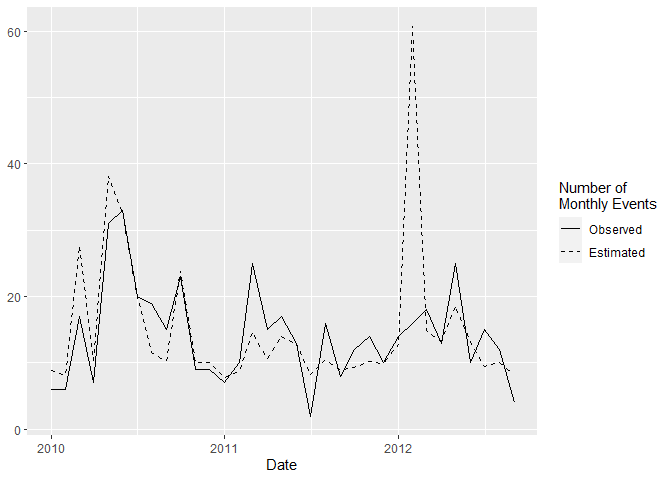
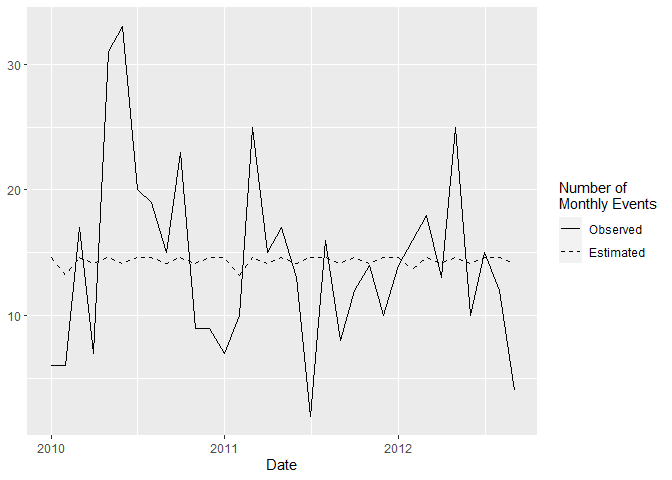
readme update

diff --git a/src/3_trig_space.cpp b/src/3_trig_space.cpp
@@ -23,7 +23,7 @@ NumericVector get_h(NumericMatrix p0, NumericVector space_breaks,
     for (int l = 0; l < n_l; l++) {
       for (int i = 0; i < n_i; i++){
         for (int j = i; j < n_i; j++){
-          if(space_breaks[l] < dist_mat(i,j) && dist_mat(i,j) <= space_breaks[l+1]){
+          if(space_breaks[l] < dist_mat(i,j) && dist_mat(i,j) <= space_breaks[l + 1]){
             num_h[l] += p0(j,i);
           } else{
             num_h[l] += 0;
@@ -35,7 +35,7 @@ NumericVector get_h(NumericMatrix p0, NumericVector space_breaks,
     // denominator
 
     for (int i = 0; i < n_l; i++){
-      den_h[i] = (space_breaks[i+1] - space_breaks[i]);
+      den_h[i] = (space_breaks[i + 1] - space_breaks[i]);
     }
 
     for (int i = 0; i < n_i; i++) {

diff --git a/README.md b/README.md
@@ -56,12 +56,24 @@ equal to `TRUE`. We’ll set out reference date to be January 1, 2010, the
 date that our simulated catalog began.
 
 ``` r
+t1 = c(0, 0.001, 0.01, 0.1, 1, 5, 10, 100, 1500)
+t2 = c(0,2,5,10, 31, 1500)
+s1 = c(0, 0.01, 0.1, 1, 10, 100)
+s2 = c(0, 0.001, 0.01, 0.1, 1, 5, 10, 50, 100)
+s3 = c(0, 0.1, 1, 5, 10, 25, 50, 100)
+s4 = c(0, 0.001, 0.01, 0.25, 0.50, 0.75, 1, 2.5, 5, 10, 25, 50, 100)
 out = nph(dates = quake$date, ref_date = "2010-01-01",
           marks = quake$m, 
-          time_breaks = c(0, 2, 5, 10, 31, 1500),
+          lat = quake$lat,
+          lon = quake$lon,
+          time_breaks = t1,
+          space_breaks = s4,
+          space_quantile = FALSE,
           time_quantile = FALSE,
           mark_quantile = TRUE,
           time_of_day = quake$time)
+
+# good luck so far with t1 and mark quantile
 ```
 
 We can view the background rate and percentage of mass that lies on the
@@ -69,9 +81,9 @@ diagonal of the resulting probability matrix.
 
 ``` r
 out$br
-#> [1] 0.2273166
+#> [1] 0.4709871
 out$perc_diag
-#> [1] 0.4835902
+#> [1] 0.9999988
 ```
 
 We can then inspect histogram estimators of the triggering functions.
@@ -85,23 +97,24 @@ trig_plots(model = out, g_max = 32,
 
 <img src="man/figures/README-unnamed-chunk-4-1.png" width="100%" />
 
-    #> TableGrob (1 x 2) "arrange": 2 grobs
+    #> TableGrob (1 x 3) "arrange": 3 grobs
     #>   z     cells    name           grob
     #> 1 1 (1-1,1-1) arrange gtable[layout]
     #> 2 2 (1-1,2-2) arrange gtable[layout]
+    #> 3 3 (1-1,3-3) arrange gtable[layout]
 
 We’ll now calculate the conditional intensity of the process.
 
 ``` r
 ci = cond_int(model = out)
 head(ci)
-#>       times lat lon    marks  cond_int       Date
-#> 1  8.966238   0   0 3.756671 0.2300374 2010-01-09
-#> 2 10.223218   0   0 3.569237 0.7084398 2010-01-11
-#> 3 12.579884   0   0 3.038466 0.3536702 2010-01-13
-#> 4 19.361111   0   0 3.672588 0.2528203 2010-01-20
-#> 5 23.427431   0   0 3.047991 0.3293583 2010-01-24
-#> 6 29.829606   0   0 3.042964 0.2853797 2010-01-30
+#>       times         lat       lon    marks  cond_int       Date
+#> 1  8.966238 0.698142489 0.6944789 3.756671 0.4756862 2010-01-09
+#> 2 10.223218 0.686690810 0.6834387 3.569237 0.4709875 2010-01-11
+#> 3 12.579884 0.674706658 0.7150710 3.038466 0.4709879 2010-01-13
+#> 4 19.361111 0.629251374 0.9108068 3.672588 0.4709871 2010-01-20
+#> 5 23.427431 0.002338193 0.4389249 3.047991 0.4709871 2010-01-24
+#> 6 29.829606 0.120843447 0.3801922 3.042964 0.4709871 2010-01-30
 ```
 
 We can perfrom super-thinning as a residual method, thinning events in
@@ -114,13 +127,20 @@ intensity as the threshhold value.
 st = super_thin(K = "median_ci", model = out,
                 method = "superthin")
 head(st)
-#>          times lat lon    marks  cond_int       Date         p keep   type
-#> 1     8.966238   0   0 3.756671 0.2300374 2010-01-09 1.0000000    1 retain
-#> 2    10.223218   0   0 3.569237 0.7084398 2010-01-11 0.6534822    1 retain
-#> 3    12.579884   0   0 3.038466 0.3536702 2010-01-13 1.0000000    1 retain
-#> 1100 17.845554   1   0 3.000474 0.2404118 2010-01-18 0.4806991    1    sim
-#> 4    19.361111   0   0 3.672588 0.2528203 2010-01-20 1.0000000    1 retain
-#> 5    23.427431   0   0 3.047991 0.3293583 2010-01-24 1.0000000    1 retain
+#>       times         lat       lon    marks  cond_int       Date         p keep
+#> 1  8.966238 0.698142489 0.6944789 3.756671 0.4756862 2010-01-09 0.9901215    1
+#> 2 10.223218 0.686690810 0.6834387 3.569237 0.4709875 2010-01-11 0.9999992    1
+#> 3 12.579884 0.674706658 0.7150710 3.038466 0.4709879 2010-01-13 0.9999984    1
+#> 4 19.361111 0.629251374 0.9108068 3.672588 0.4709871 2010-01-20 1.0000000    1
+#> 5 23.427431 0.002338193 0.4389249 3.047991 0.4709871 2010-01-24 1.0000000    1
+#> 6 29.829606 0.120843447 0.3801922 3.042964 0.4709871 2010-01-30 1.0000000    1
+#>     type
+#> 1 retain
+#> 2 retain
+#> 3 retain
+#> 4 retain
+#> 5 retain
+#> 6 retain
 ```
 
 After super-thinning, we can view a histogram of the residual process to
